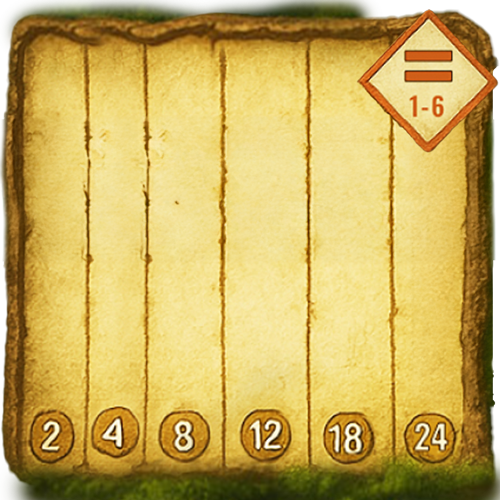
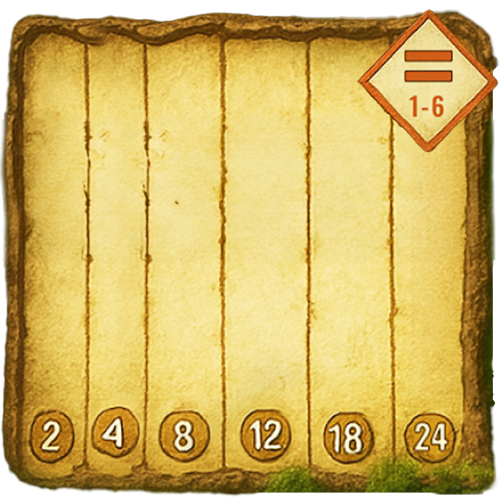
d

Changed region(s): [[0.0, 0.9, 1.0, 1.0], [0.0, 0.0, 0.75, 0.12]]

diff --git a/tablero.html b/tablero.html
@@ -168,7 +168,7 @@
         }
 
         #recinto2 {
-            background-image: url('img/Trío-Frondoso.png');
+            background-image: url('img/ChatGPT\ Image\ 20\ ago\ 2025\,\ 02_26_45\ a.m..png');
         }
 
         #recinto3 {
